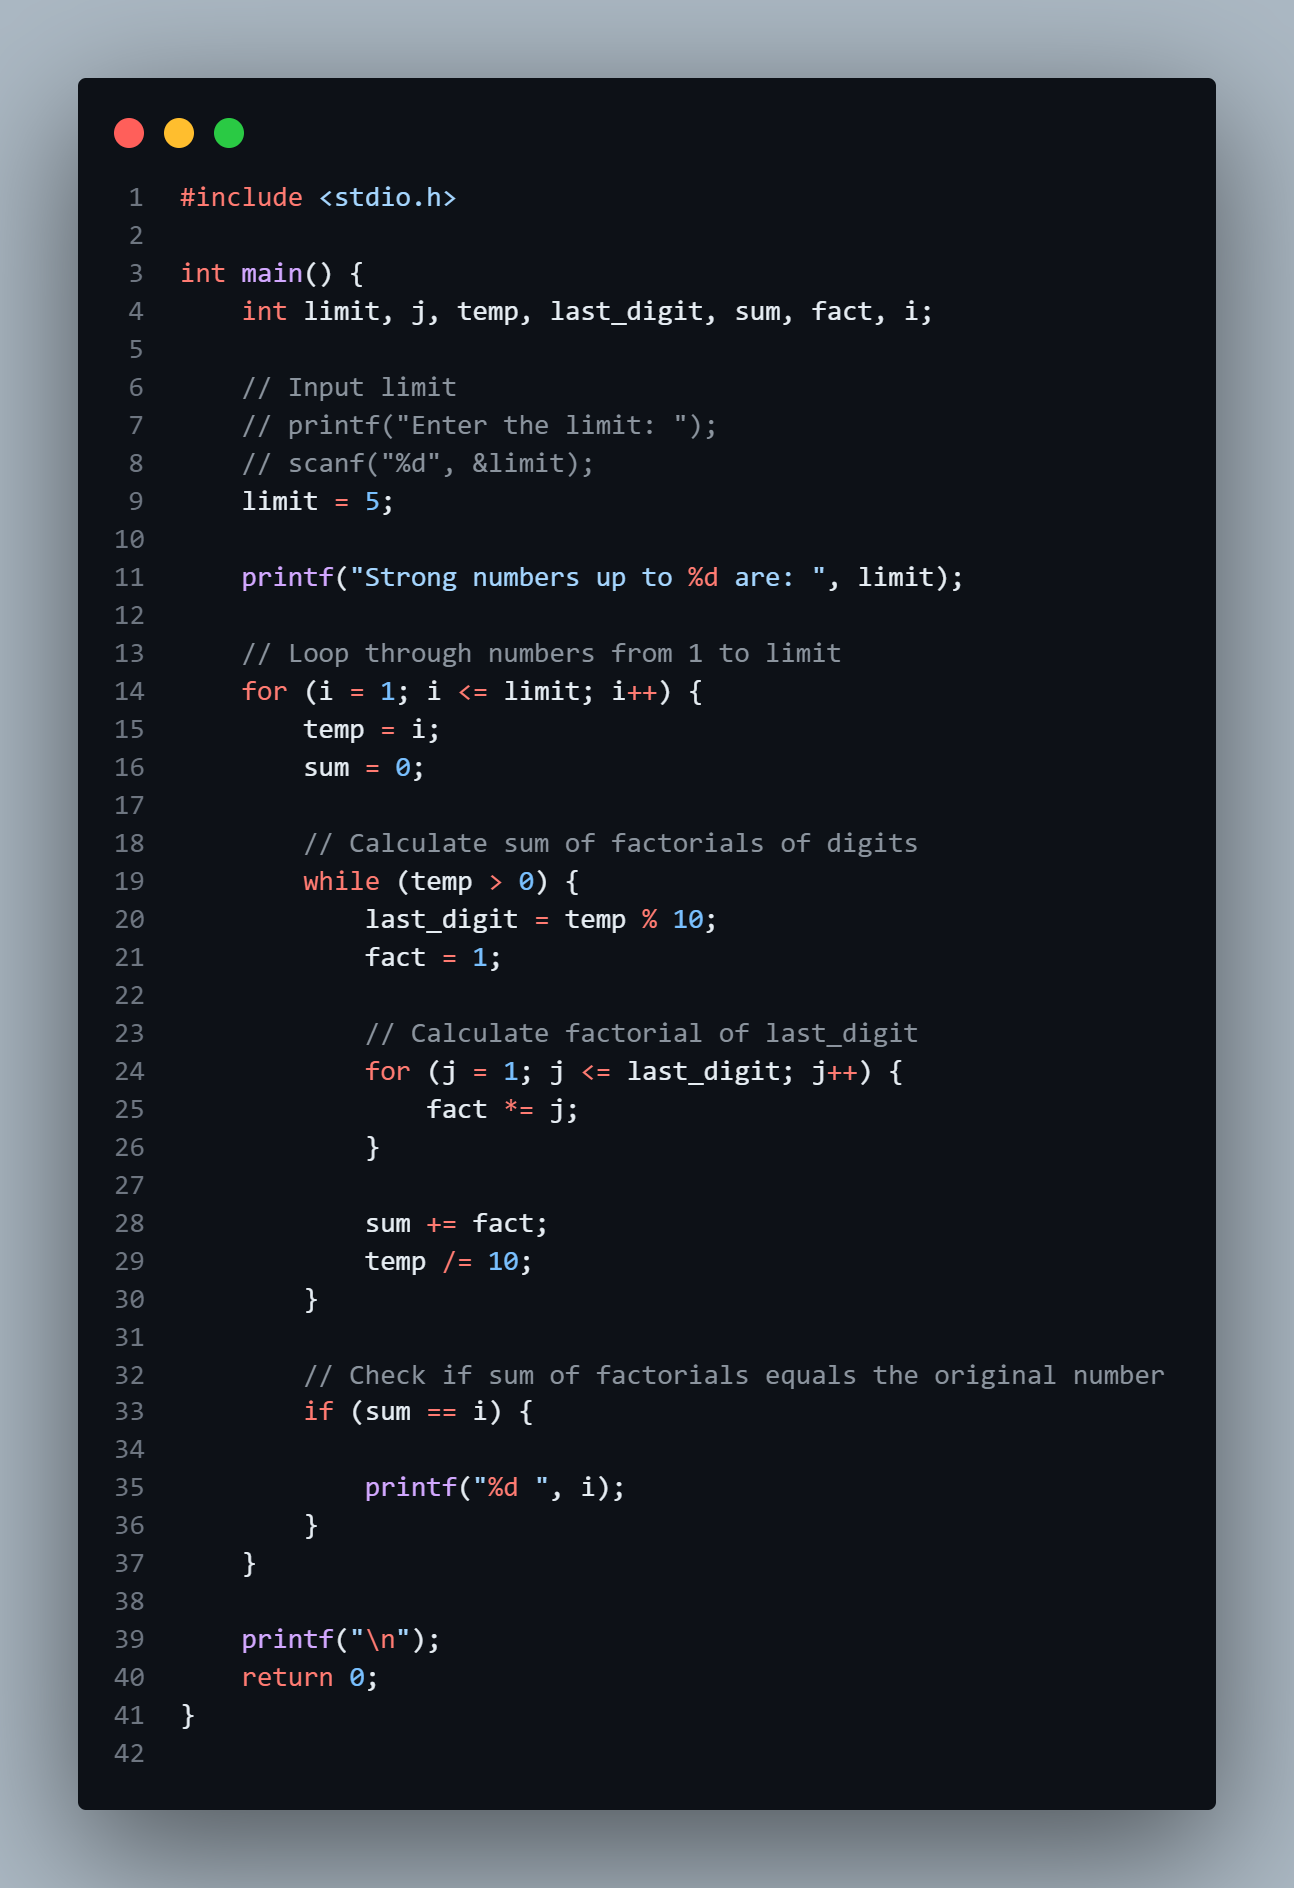
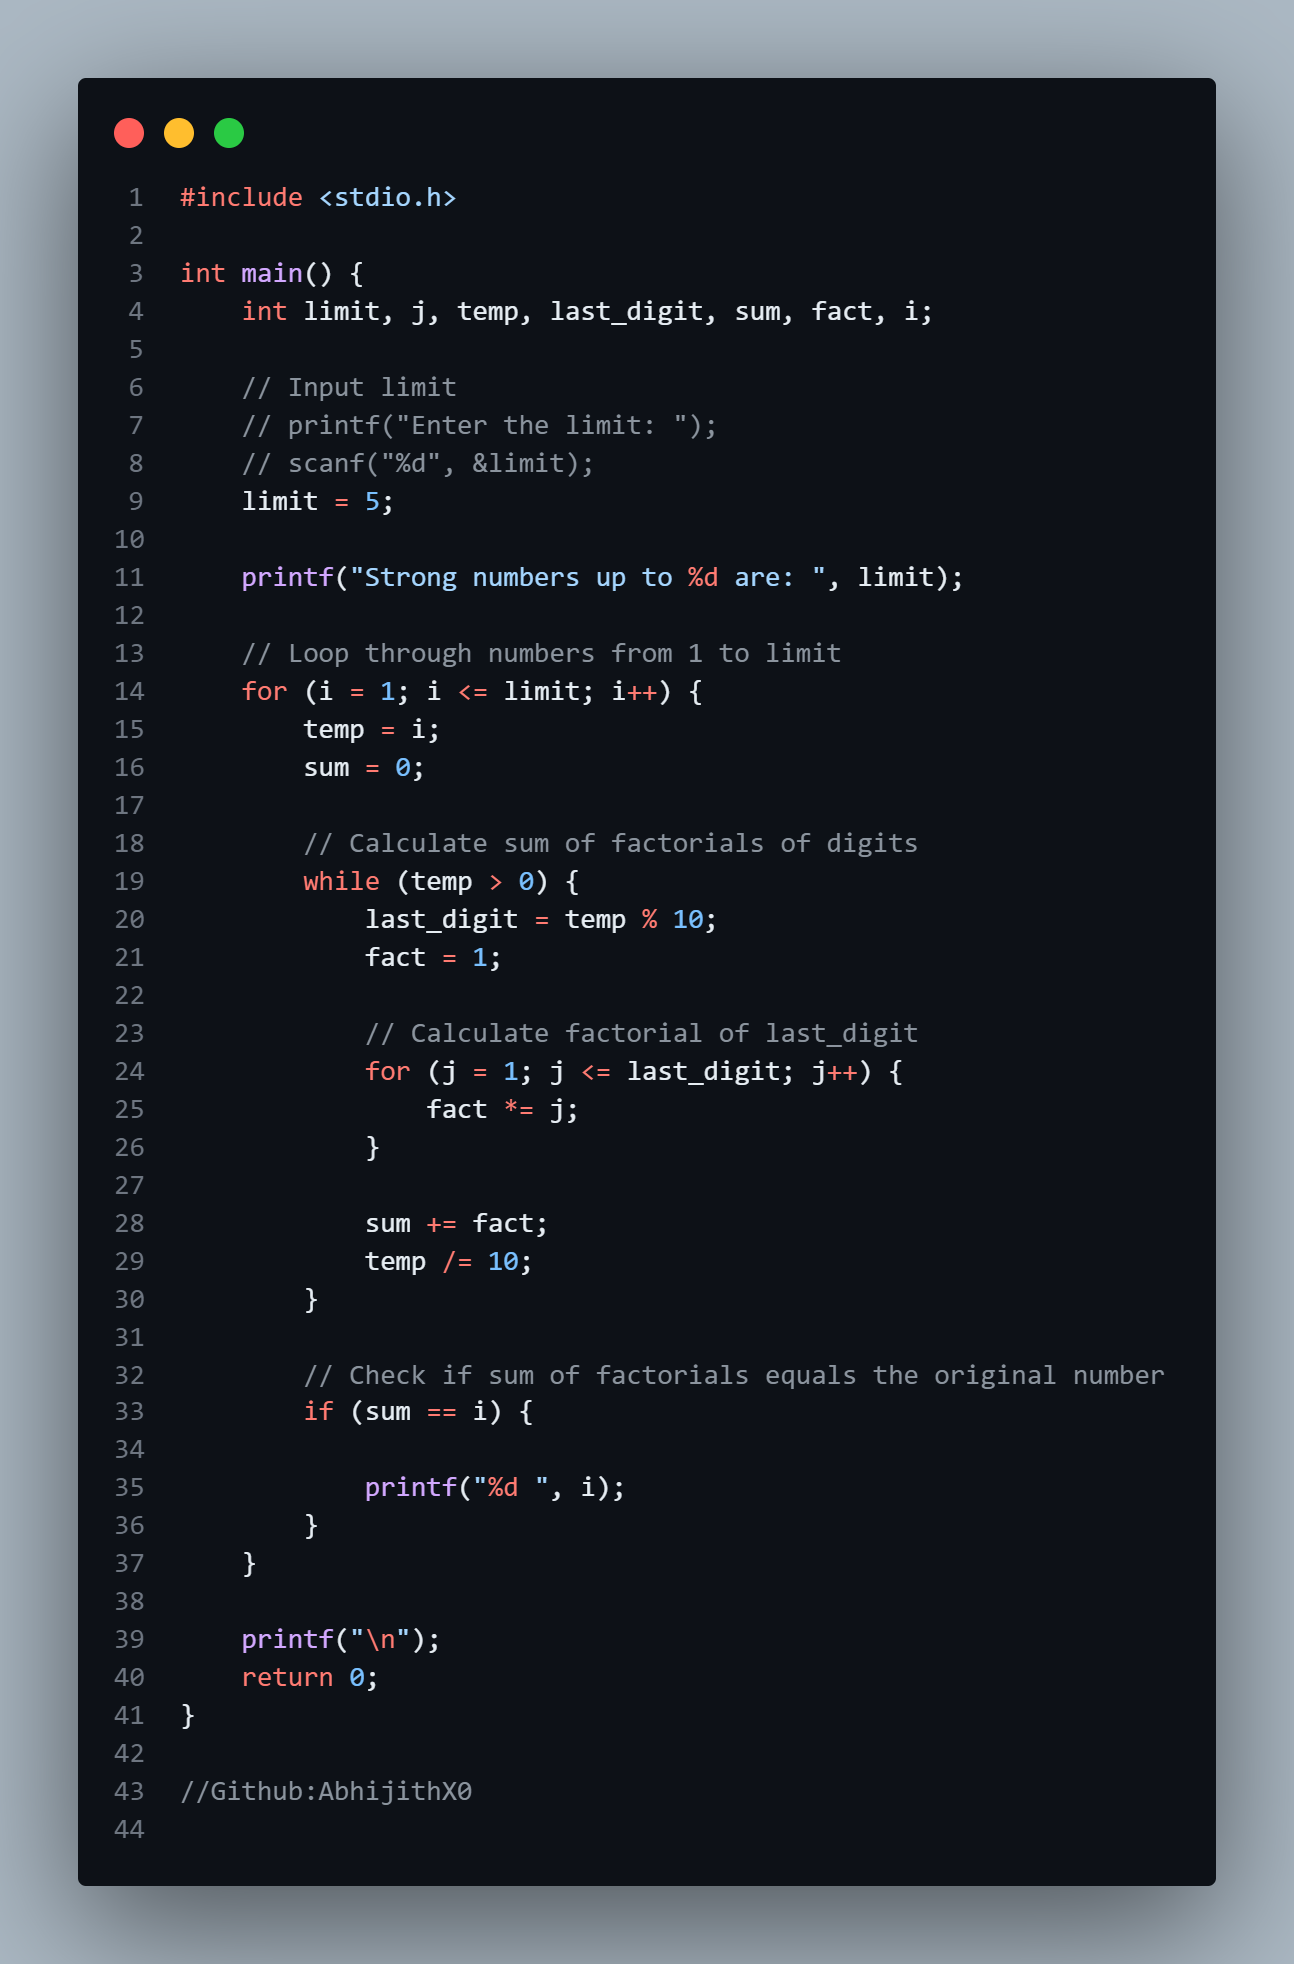
commit

diff --git a/MAIN - C/vWORK - C/strong_number.c b/MAIN - C/vWORK - C/strong_number.c
@@ -39,3 +39,5 @@ int main() {
     printf("\n");
     return 0;
 }
+
+//Github:AbhijithX0
